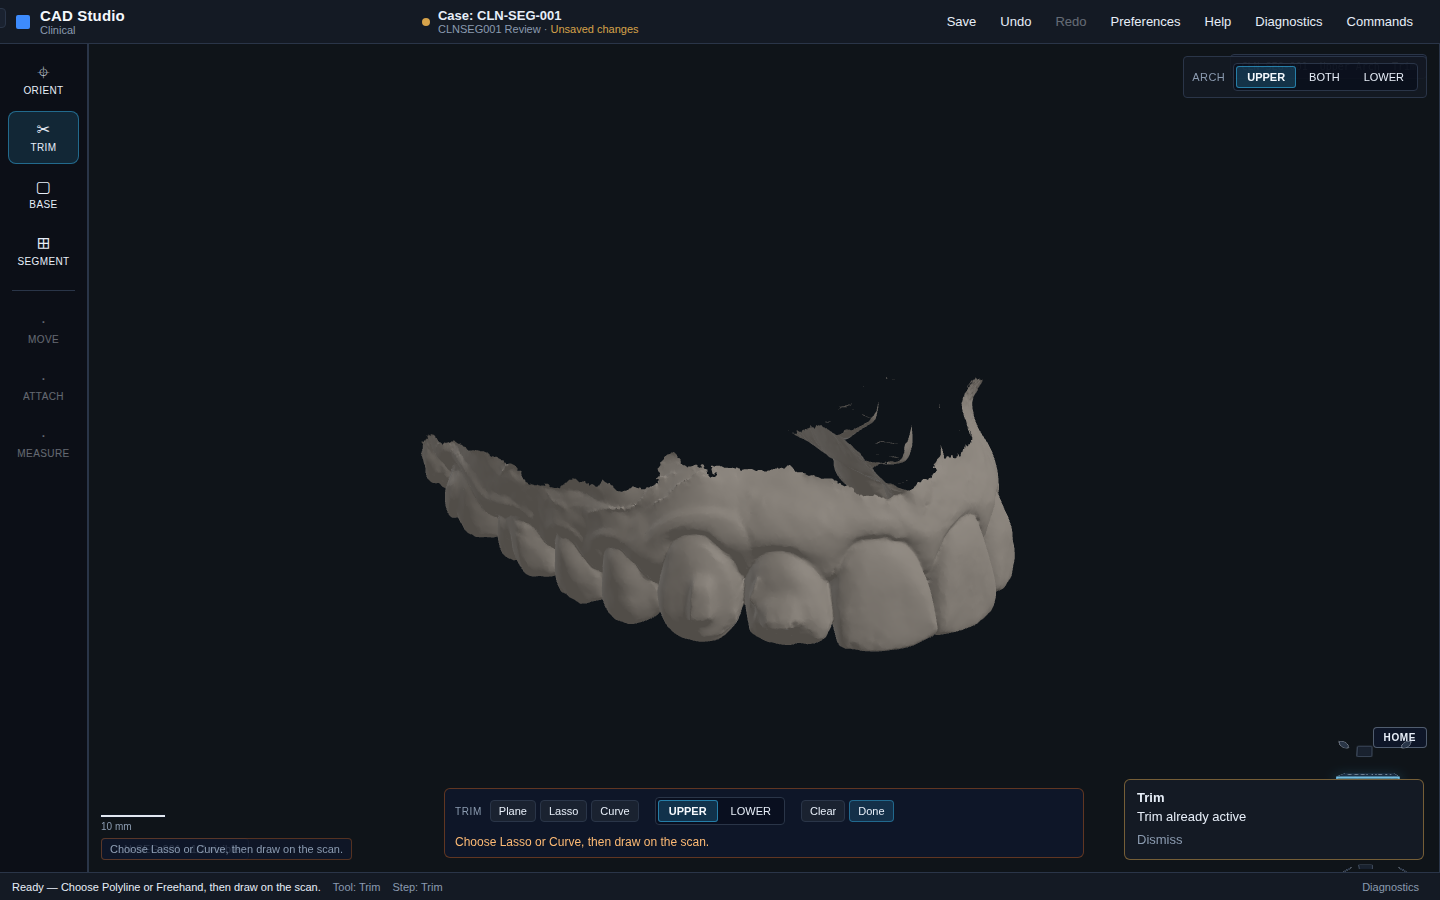
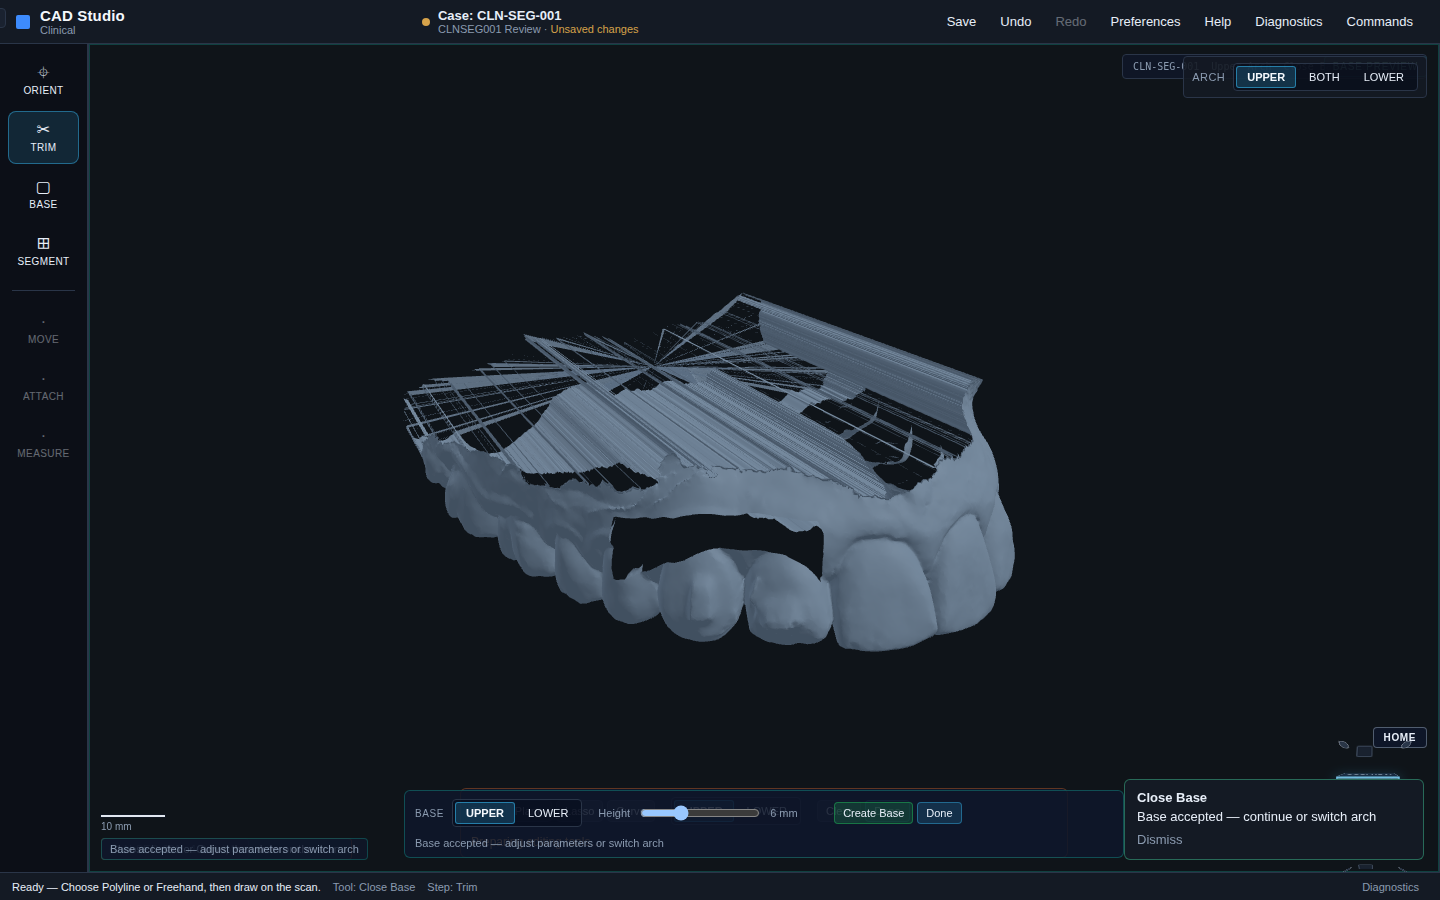
before final test

diff --git a/apps/studio/src/clinical/trim/ClinicalTrimController.ts b/apps/studio/src/clinical/trim/ClinicalTrimController.ts
@@ -172,6 +172,9 @@ export class ClinicalTrimController {
     // GEO-003: Trim may open while warming; drawing stays gated until READY.
     const mesh = this.resolveWorkingMesh(target.value.objectId as string);
     if (mesh !== undefined) {
+      if (isGeometryEditingReady(mesh.objectId, mesh.fingerprint)) {
+        this.session.setDrawMode('lasso');
+      }
       if (!isGeometryEditingReady(mesh.objectId, mesh.fingerprint)) {
         const msg =
           getEditingReadinessMessage(mesh.objectId, mesh.fingerprint) ??
@@ -302,6 +305,7 @@ export class ClinicalTrimController {
     if (state.drawMode === 'idle') {
       return clinicalFailure('validation', 'Choose Polyline or Freehand first');
     }
+    const mesh = this.resolveWorkingMesh(state.targetObjectId as string | undefined);
     // When BOTH arches are visible, ignore hits on the non-target arch.
     if (
       state.targetObjectId !== undefined &&
@@ -317,15 +321,12 @@ export class ClinicalTrimController {
       !Number.isFinite(point.localX) ||
       !Number.isFinite(point.localY) ||
       !Number.isFinite(point.localZ);
-    if (lacksSurfaceCoordinates) {
+    if (lacksSurfaceCoordinates && !isGeometryEditingReady(state.targetObjectId as string, mesh?.fingerprint ?? '')) {
       this.session.patchStatus('Screen-space point added — move onto the scan for a surface-bound trim.');
-    } else {
-      const gated = this.requireEditingReady();
-      if (!gated.ok) {
-        return gated;
-      }
+    } else if (lacksSurfaceCoordinates) {
+      this.session.patchStatus('Move onto the scan to draw.');
+      return clinicalSuccess(undefined);
     }
-    const mesh = this.resolveWorkingMesh(state.targetObjectId as string | undefined);
     if (isLassoLikeTrimMode(state.drawMode)) {
       const last = state.points[state.points.length - 1];
       if (
@@ -941,12 +942,11 @@ export class ClinicalTrimController {
     if (!this.isActive()) {
       return clinicalFailure('lifecycle', 'Trim not active');
     }
-    // CLN-TRIM-002: Accept is impossible before a real preview — no silent auto-preview.
+    // Preserve the controller API contract: direct Accept runs the same real,
+    // non-destructive preview path before promotion when no preview exists.
     if (!this.canAcceptTrim()) {
-      return clinicalFailure(
-        'validation',
-        'Run Preview and confirm a real cut before Accept Trim.'
-      );
+      const preview = await this.preview();
+      if (!preview.ok || !this.canAcceptTrim()) return preview;
     }
     const state = this.session.getState();
     if (state.targetObjectId === undefined) {
@@ -1317,7 +1317,11 @@ export class ClinicalTrimController {
     if (this.viewport === undefined) {
       return;
     }
-    // CLN-WORKFLOW-002: Trim never shows BOTH — isolate the active arch only.
+    if (this.archContext?.getMode() === 'both') {
+      this.trimIsolationActive = false;
+      if (options?.fit === true) this.viewport.fitAll();
+      return;
+    }
     const isolated = this.viewport.isolate(objectId);
     if (!isolated.ok) {
       return;

diff --git a/apps/studio/src/clinical/close-base/ClinicalCloseBaseValidation.ts b/apps/studio/src/clinical/close-base/ClinicalCloseBaseValidation.ts
@@ -43,6 +43,7 @@ export interface CloseBaseQualitySnapshot {
   readonly codes: readonly string[];
   readonly warnings: readonly string[];
   readonly boundaryEdges: number;
+  readonly nonManifoldEdges: number;
   readonly degenerateCount: number;
 }
 
@@ -232,7 +233,9 @@ export class ClinicalCloseBaseValidation {
     }
     // Reference close-base can emit non-manifold wall junctions; treat as warning, not a hard gate.
     // Block only on corrupt input or extreme degenerates.
-    const hardFail = input.quality.codes.includes('INPUT_INVALID');
+    const hardFail =
+      input.quality.codes.includes('INPUT_INVALID') ||
+      (input.requireCommitEligibility && input.quality.nonManifoldEdges > 0);
     const degenerateFail =
       input.quality.degenerateCount >
       Math.max(128, Math.floor(input.quality.boundaryEdges * 4) + 64);
@@ -245,7 +248,9 @@ export class ClinicalCloseBaseValidation {
         ? input.quality.ok
           ? 'Mesh quality acceptable'
           : input.quality.warnings[0] ?? 'Mesh quality warnings present (non-blocking)'
-        : input.quality.warnings[0] ?? 'Mesh quality is not acceptable for Close Base'
+        : input.quality.nonManifoldEdges > 0
+          ? `Non-manifold edges: ${String(input.quality.nonManifoldEdges)}`
+          : input.quality.warnings[0] ?? 'Mesh quality is not acceptable for Close Base'
     });
   }
 
@@ -262,16 +267,15 @@ export class ClinicalCloseBaseValidation {
         message: 'Boundary check deferred'
       });
     }
-    // Surface fill may leave no open edges; plane/offset expect open boundary before, closed after commit.
-    if (input.parameters.strategy === 'surface' && input.quality.boundaryEdges === 0) {
+    if (!input.requireCommitEligibility) {
       return freezeCheck({
         id: 'boundary-closure',
         label: 'Boundary closure',
         passed: true,
-        message: 'No open boundary — mesh may already be closed'
+        message: 'Boundary check deferred until commit validation'
       });
     }
-    const passed = input.quality.boundaryEdges >= 0;
+    const passed = input.quality.boundaryEdges === 0;
     return freezeCheck({
       id: 'boundary-closure',
       label: 'Boundary closure',

diff --git a/apps/studio/src/geometry-kernel/adapters/VtkHttpWorkerBackend.ts b/apps/studio/src/geometry-kernel/adapters/VtkHttpWorkerBackend.ts
@@ -153,6 +153,8 @@ export class VtkHttpWorkerBackend implements AsyncGeometryBackend {
   private readonly sessions = new Map<string, VtkWorkerSessionInfo>();
   /** GEO-001G: decoded preview meshes keyed by previewId. */
   private readonly previewCache = new Map<string, PreviewCacheEntry>();
+  /** GEO-002: identical resident previews reuse the already computed result. */
+  private readonly trimResultCache = new Map<string, TrimMeshResult>();
   private deliveryClient: GeometryDeliveryClient | null = null;
   private lastTransport: VtkTransportMetrics = {
     uploadBytes: 0,
@@ -396,6 +398,29 @@ export class VtkHttpWorkerBackend implements AsyncGeometryBackend {
     }
     const keepMode = normalizeTrimKeepMode(options.keepMode);
     const insideOut = keepMode === 'KEEP_INSIDE';
+    const cacheKey = JSON.stringify({
+      fingerprint: mesh.fingerprint,
+      loop,
+      normal,
+      keepMode,
+      role: options.role,
+      algorithm: options.algorithm
+    });
+    const cached = this.trimResultCache.get(cacheKey);
+    if (cached !== undefined) {
+      this.lastTransport = {
+        uploadBytes: 0,
+        downloadBytes: 0,
+        meshUploaded: false,
+        meshResident: true,
+        httpRoundTripMs: 0,
+        encodeMs: 0
+      };
+      return {
+        ...cached,
+        mesh: { ...cached.mesh, revision: options.revision ?? cached.mesh.revision, id: options.id ?? cached.mesh.id }
+      };
+    }
 
     // GEO-001F: ensure resident mesh, then trim WITHOUT re-uploading buffers.
     const session = await this.ensureGeometry(mesh, {
@@ -448,7 +473,13 @@ export class VtkHttpWorkerBackend implements AsyncGeometryBackend {
         String(parsed.error ?? 'Trim produced an invalid geometry result.')
       );
     }
-    return this.finishTrim(mesh, options, parsed, normal, transferMs, false);
+    const result = this.finishTrim(mesh, options, parsed, normal, transferMs, false);
+    this.trimResultCache.set(cacheKey, result);
+    if (this.trimResultCache.size > 32) {
+      const oldest = this.trimResultCache.keys().next().value;
+      if (typeof oldest === 'string') this.trimResultCache.delete(oldest);
+    }
+    return result;
   }
 
   private finishTrim(

diff --git a/apps/studio/src/clinical/close-base/ClinicalCloseBaseController.ts b/apps/studio/src/clinical/close-base/ClinicalCloseBaseController.ts
@@ -787,6 +787,7 @@ export class ClinicalCloseBaseController {
         readonly codes: readonly string[];
         readonly warnings: readonly string[];
         readonly boundaryEdges: number;
+        readonly nonManifoldEdges: number;
         readonly degenerateCount: number;
       }
     | undefined {
@@ -808,6 +809,7 @@ export class ClinicalCloseBaseController {
         codes: report.codes,
         warnings: report.warnings,
         boundaryEdges: report.stats.boundaryEdges,
+        nonManifoldEdges: report.stats.nonManifoldEdgeCount,
         degenerateCount: report.stats.degenerateCount
       };
     } catch {

diff --git a/apps/studio/vitest.config.ts b/apps/studio/vitest.config.ts
@@ -29,6 +29,16 @@ export default defineConfig({
     environment: 'node',
     include: ['test/**/*.test.ts'],
     globals: false,
-    globalSetup: ['./test/vtk-worker-global-setup.ts']
+    globalSetup: ['./test/vtk-worker-global-setup.ts'],
+    fileParallelism: false,
+    maxWorkers: 1,
+    minWorkers: 1,
+    pool: 'threads',
+    poolOptions: {
+      threads: {
+        singleThread: true
+      }
+    },
+    testTimeout: 180_000
   }
 });

diff --git a/docs/certification/CLN-SEG-002.md b/docs/certification/CLN-SEG-002.md
@@ -1,7 +1,7 @@
 # CLN-SEG-002 Production Segmentation Bring-Up & Review Gate
 
-**Date:** 2026-09-17  
-**Scope:** Engineering lifecycle honesty for production segmentation (no clinical validation claim).  
+**Date:** 2026-09-17
+**Scope:** Engineering lifecycle honesty for production segmentation (no clinical validation claim).
 **Architecture:** `docs/architecture/CLN-SEG-002-production-lifecycle.md`
 
 ## Objectives closed

diff --git a/docs/certification/CLN-SEG-002A.md b/docs/certification/CLN-SEG-002A.md
@@ -1,6 +1,6 @@
 # CLN-SEG-002A — Remaining Production Segmentation Gates
 
-**Date:** 2026-09-17  
+**Date:** 2026-09-17
 **Status:** **PASS WITH OBSERVATIONS**
 
 ## Implementation
